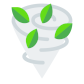
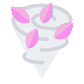
Static, Rain Dance, Solar Power and modified petal dance

diff --git a/mysteryDungeon/src/main/java/mysteryDungeon/powers/SolarPowerPower.java b/mysteryDungeon/src/main/java/mysteryDungeon/powers/SolarPowerPower.java
@@ -30,8 +30,8 @@ public class SolarPowerPower extends MysteryDungeonPower implements CloneablePow
 
     // We create 2 new textures *Using This Specific Texture Loader* - an 84x84 image and a 32x32 one.
     // There's a fallback "missing texture" image, so the game shouldn't crash if you accidentally put a non-existent file.
-    private static final Texture tex84 = TextureLoader.getTexture(makePowerPath("placeholder_power84.png"));
-    private static final Texture tex32 = TextureLoader.getTexture(makePowerPath("placeholder_power32.png"));
+    private static final Texture tex84 = TextureLoader.getTexture(makePowerPath(SolarPowerPower.class.getSimpleName()+"84.png"));
+    private static final Texture tex32 = TextureLoader.getTexture(makePowerPath(SolarPowerPower.class.getSimpleName()+"32.png"));
 
     public SolarPowerPower(final AbstractCreature owner, final int amount) {
         name = NAME;

diff --git a/mysteryDungeon/src/main/java/mysteryDungeon/powers/RainDancePower.java b/mysteryDungeon/src/main/java/mysteryDungeon/powers/RainDancePower.java
@@ -31,8 +31,8 @@ public class RainDancePower extends MysteryDungeonPower implements CloneablePowe
 
     // We create 2 new textures *Using This Specific Texture Loader* - an 84x84 image and a 32x32 one.
     // There's a fallback "missing texture" image, so the game shouldn't crash if you accidentally put a non-existent file.
-    private static final Texture tex84 = TextureLoader.getTexture(makePowerPath("placeholder_power84.png"));
-    private static final Texture tex32 = TextureLoader.getTexture(makePowerPath("placeholder_power32.png"));
+    private static final Texture tex84 = TextureLoader.getTexture(makePowerPath(RainDancePower.class.getSimpleName()+"84.png"));
+    private static final Texture tex32 = TextureLoader.getTexture(makePowerPath(RainDancePower.class.getSimpleName()+"32.png"));
 
     public RainDancePower(final AbstractCreature owner, final int amount) {
         name = NAME;

diff --git a/mysteryDungeon/src/main/java/mysteryDungeon/powers/StaticPower.java b/mysteryDungeon/src/main/java/mysteryDungeon/powers/StaticPower.java
@@ -30,8 +30,8 @@ public class StaticPower extends MysteryDungeonPower implements CloneablePowerIn
 
     // We create 2 new textures *Using This Specific Texture Loader* - an 84x84 image and a 32x32 one.
     // There's a fallback "missing texture" image, so the game shouldn't crash if you accidentally put a non-existent file.
-    private static final Texture tex84 = TextureLoader.getTexture(makePowerPath("placeholder_power84.png"));
-    private static final Texture tex32 = TextureLoader.getTexture(makePowerPath("placeholder_power32.png"));
+    private static final Texture tex84 = TextureLoader.getTexture(makePowerPath(StaticPower.class.getSimpleName()+"84.png"));
+    private static final Texture tex32 = TextureLoader.getTexture(makePowerPath(StaticPower.class.getSimpleName()+"32.png"));
 
     public StaticPower(final AbstractCreature owner, final int amount) {
         name = NAME;
